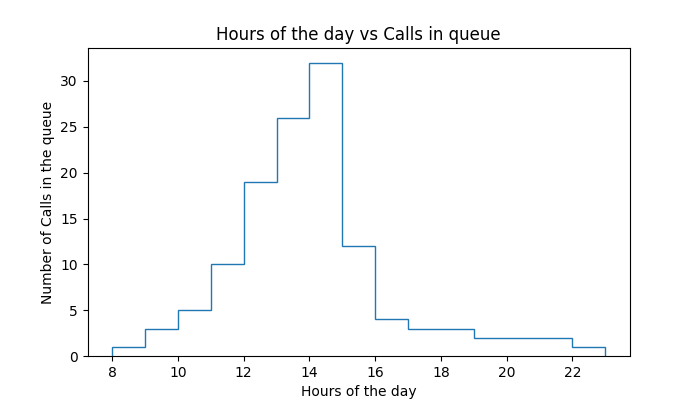
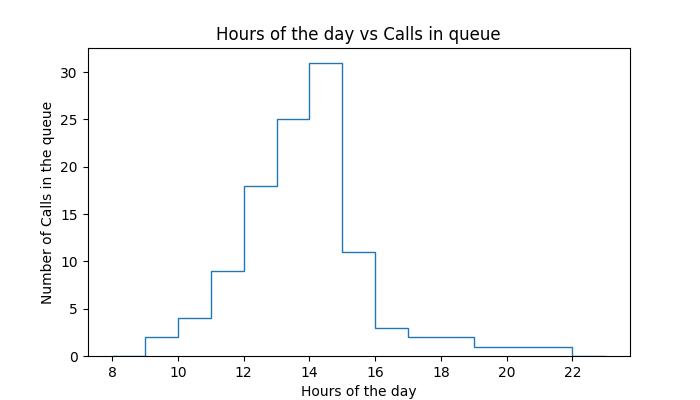
working with all graphs

diff --git a/callcenter/CallCenter.py b/callcenter/CallCenter.py
@@ -208,7 +208,7 @@ class CallCenter:
                     client_data = client.get_metrics()
                     logger.info(f"{client} abandoned at {client.abandon_time}")
                     self.day_metrics.add_abandonment(client_data)
-                    self.day_metrics.add_call_or_chat(client_data)
+                    #self.day_metrics.add_call_or_chat(client_data)
                     continue
                 pulled_valid_client = True
                 logger.debug(f"{agent} {agent.task_assigned} pulled another client {self.curr_time}")
@@ -240,8 +240,17 @@ class CallCenter:
                 sub_queue = 'clients'
             else:
                 sub_queue = 'restaurants'
-        if not self.queue_map[queue].is_empty(sub_queue):  # Pull another client if queue isn't empty
+        while not self.queue_map[queue].is_empty(sub_queue):  # Pull another client if queue isn't empty
             client = self.queue_map[queue].dequeue(sub_queue)
+            if self.curr_time - client.arrival_time > client.max_wait_time:
+                client.abandon_queue()
+                self.day_metrics.mark_call_or_chat_events(client.contact_method,
+                                                          client.arrival_time + client.wait_time, 0)
+                client_data = client.get_metrics()
+                logger.info(f"{client} abandoned at {client.abandon_time}")
+                self.day_metrics.add_abandonment(client_data)
+                #self.day_metrics.add_call_or_chat(client_data)
+                continue
             contact_duration = agent.handle_client(client)
             logger.info(f"{agent} answering {client.contact_method} at {self.curr_time}")
             client.update_metrics(self.curr_time, contact_duration)
@@ -249,6 +258,7 @@ class CallCenter:
                          callcenter.Event(self.curr_time + datetime.timedelta(seconds=contact_duration),
                                           'end_call_or_chat',
                                           client, agent))  # Push new arrival
+            break
         else:
             logger.debug(f"{agent} returned from a break and queue is empty")
 
@@ -392,6 +402,7 @@ class CallCenter:
                 *self.day_metrics.system_state_hist_calls())  # must be last to display results correctly
             # reset day
             self.events = []
+
             self.curr_time = TimeHelper.set_next_day(self.curr_time)
 
 

diff --git a/callcenter/Metrics.py b/callcenter/Metrics.py
@@ -160,7 +160,7 @@ class Metrics:
             if len(people_in_system[index_counter: index_counter + group_len]) == 0:
                 hour_avgs.append(0)
             else:
-                hour_avgs.append(math.ceil(sum(people_in_system[index_counter: index_counter + group_len]) / len(
+                hour_avgs.append(math.floor(sum(people_in_system[index_counter: index_counter + group_len]) / len(
                     people_in_system[index_counter: index_counter + group_len])))
             index_counter += group_len
         hour_names = [i for i in range(8, 9 + len(hour_avgs))]
@@ -191,7 +191,7 @@ class Metrics:
             if len(people_in_system[index_counter: index_counter + group_len]) == 0:
                 hour_avgs.append(0)
             else:
-                hour_avgs.append(math.ceil(sum(people_in_system[index_counter: index_counter + group_len]) / len(
+                hour_avgs.append(math.floor(sum(people_in_system[index_counter: index_counter + group_len]) / len(
                     people_in_system[index_counter: index_counter + group_len])))
             index_counter += group_len
         hour_names = [i for i in range(8, 9 + len(hour_avgs))]
@@ -218,7 +218,7 @@ class Metrics:
             if len(people_in_system[index_counter: index_counter + group_len]) == 0:
                 hour_avgs.append(0)
             else:
-                hour_avgs.append(math.ceil(sum(people_in_system[index_counter: index_counter + group_len]) / len(
+                hour_avgs.append(math.floor(sum(people_in_system[index_counter: index_counter + group_len]) / len(
                     people_in_system[index_counter: index_counter + group_len])))
             index_counter += group_len
         hour_names = [i for i in range(8, 9 + len(hour_avgs))]
@@ -246,7 +246,7 @@ class Metrics:
             if len(people_in_system[index_counter: index_counter + group_len]) == 0:
                 hour_avgs.append(0)
             else:
-                hour_avgs.append(math.ceil(sum(people_in_system[index_counter: index_counter + group_len]) / len(
+                hour_avgs.append(math.floor(sum(people_in_system[index_counter: index_counter + group_len]) / len(
                     people_in_system[index_counter: index_counter + group_len])))
             index_counter += group_len
         hour_names = [i for i in range(8, 9 + len(hour_avgs))]
